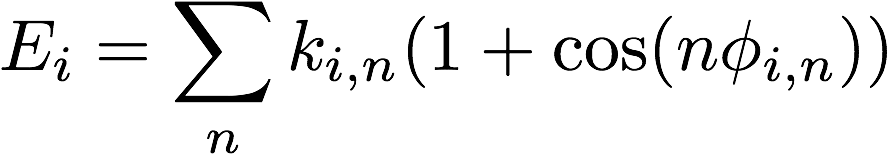
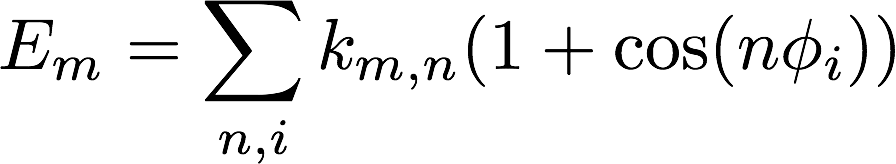
updated functional

diff --git a/butane/fourier_series/README.md b/butane/fourier_series/README.md
@@ -4,7 +4,8 @@ The functional for torsion energy is given as follows:
 
 ![](fourier_series.png?raw=true)
 
-Where n is the frequency and i is the torsion. In this work, n is truncated at 6.
+Where n is the frequency, m is the torsion type and i is the torsion. In this work, 
+n is truncated at 6.
 
 When only one torsion of a specific torsion type exists in molecule, the curve that
 arises from adding the frequencies for that torsion is usually as expected. 
